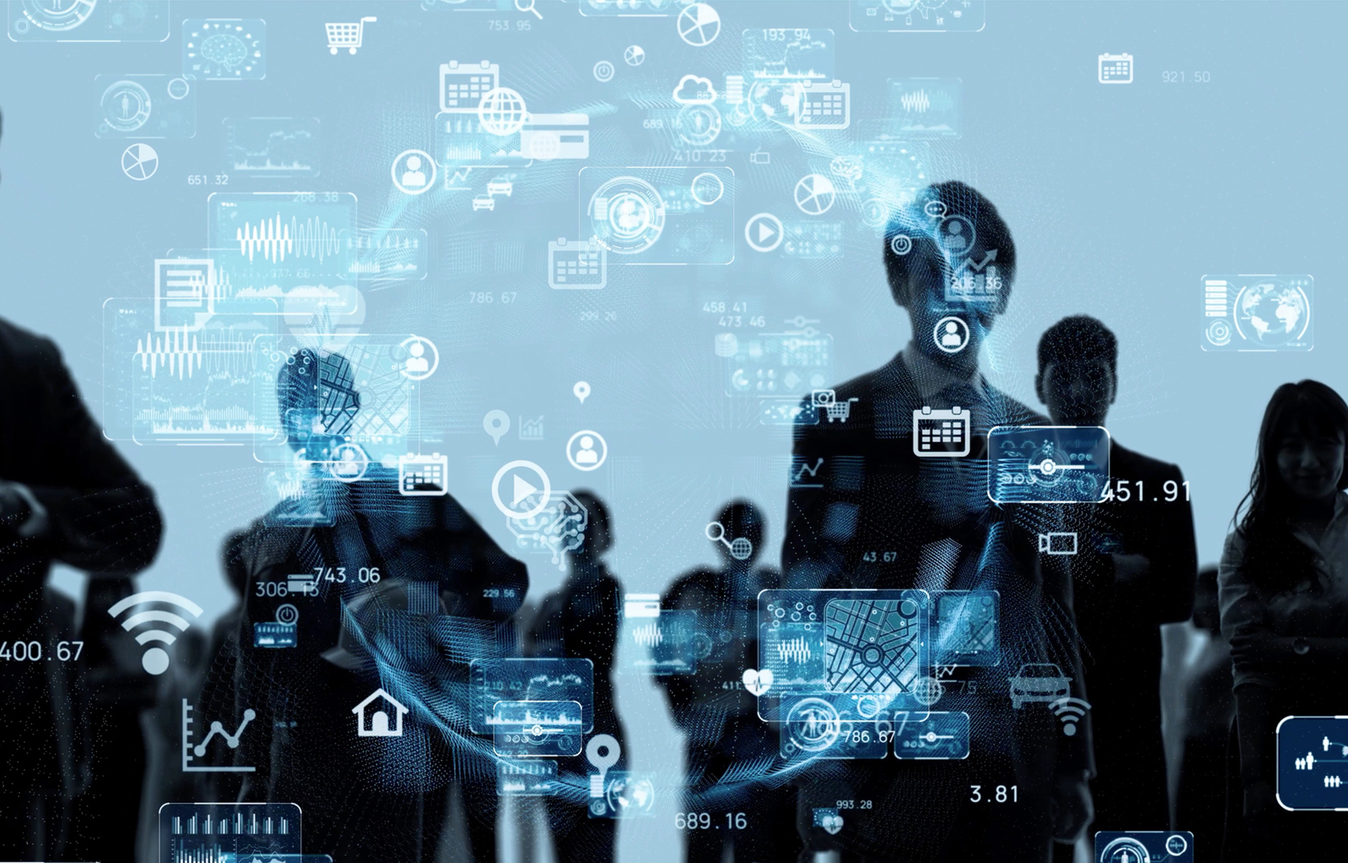
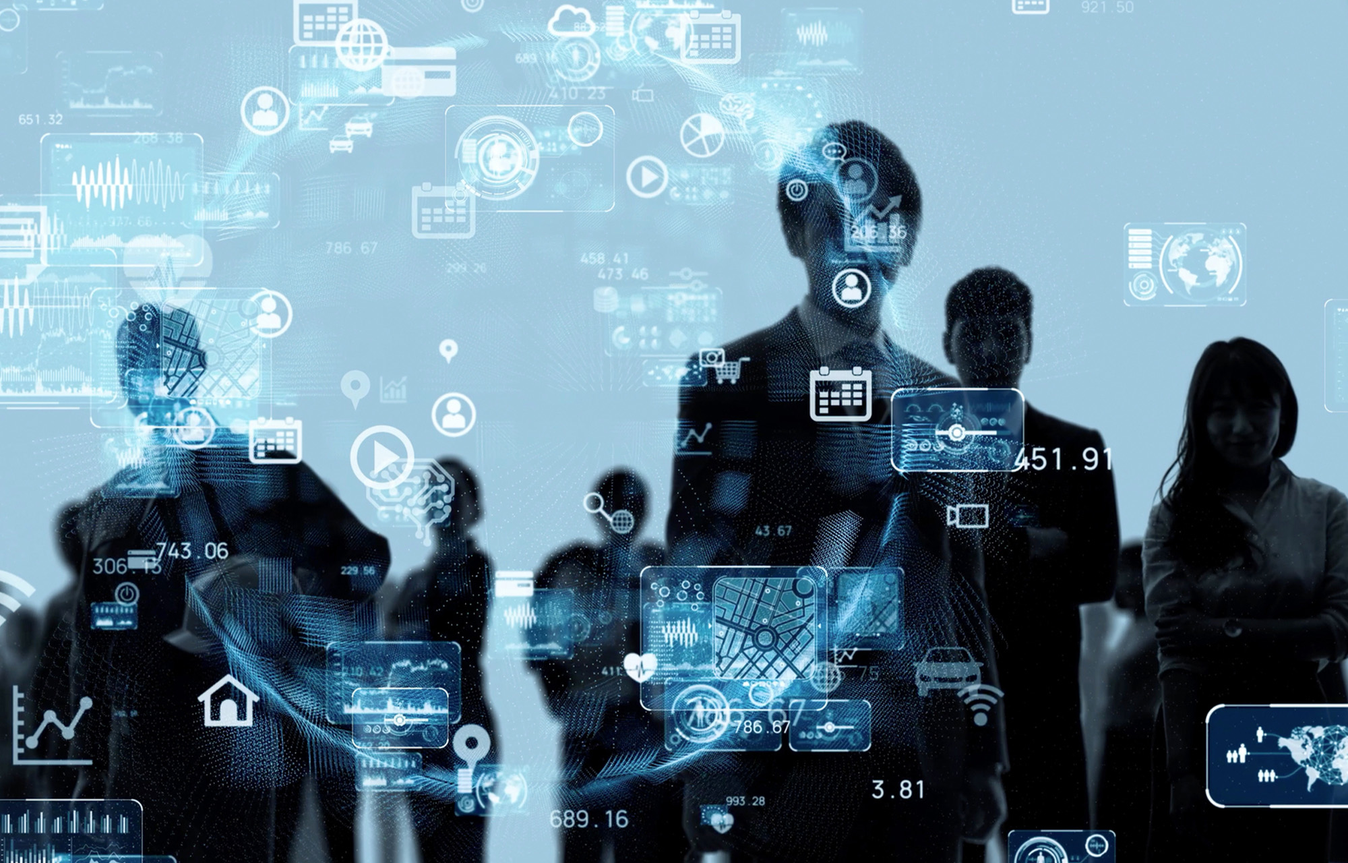
fix: トップスライド挙動変更

diff --git a/src/components/top/mv/mv.js b/src/components/top/mv/mv.js
@@ -1,7 +1,12 @@
 import $ from 'jquery';
 import notice from 'libraries-frontend-framelunch/js/notice';
+import gsap from 'gsap';
 
 notice.listen('init', () => {
+  const slide = $('.mv__slider .slide');
+  const slideLength = slide.length;
+  let currentSlide = 0;
+
   $('.copy_animation').each((index, element) => {
     $('span', element).each((index2, element2) => {
       const delay = index2 * 50 + index * 500;
@@ -21,16 +26,19 @@ notice.listen('init', () => {
 
   $('.mv__text').addClass('-start');
 
-  // eslint-disable-next-line
-  const swiper = new Swiper('#mvSlider', {
-    effect: 'fade',
-    fadeEffect: {
-      crossFade: true,
-    },
-    speed: 500,
-    allowTouchMove: false,
-    autoplay: {
-      delay: 5000,
-    },
-  });
+  setInterval(() => {
+    slide.eq(currentSlide).addClass('-lastCurrent');
+    slide.eq(currentSlide).removeClass('-current');
+    currentSlide += 1;
+    if (currentSlide >= slideLength) {
+      currentSlide = 0;
+    }
+    slide.eq(currentSlide).addClass('-current');
+    slide.eq(currentSlide).removeClass('-lastCurrent');
+    const targetSlide = slide.eq(currentSlide);
+    gsap.fromTo(targetSlide, { left: '100%' }, { left: 0, duration: 1.5, ease: 'power4.inOut' });
+    gsap.fromTo($('img', targetSlide), { x: '-100%' }, { x: 0, duration: 1.5, ease: 'power4.inOut' });
+  }, 7000);
+
+  slide.eq(currentSlide).addClass('-current');
 });

diff --git a/src/components/header/header.css b/src/components/header/header.css
@@ -1,10 +1,30 @@
 .header {
     /* header style here */
     border-bottom: 1px solid #e5e5e5;
+    height: 10rem;
+    @media (--sp) {
+        height: 6rem;
+    }
+    .headerFixed {
+        position: fixed;
+        top: 0;
+        width: calc(1360px - 20rem);
+        z-index: 300;
+        height: 10rem;
+        @media (--tb-h) {
+            width: auto;
+            left: 4rem;
+            right: 4rem;
+        }
+        @media (--sp) {
+            height: 6rem;
+        }
+    }
     .layout {
-        padding: 3.2rem 10rem;
+        padding: 0 10rem;
         border-left: 1px solid #e5e5e5;
         border-right: 1px solid #e5e5e5;
+        height: 100%;
         @media (--tb-h) {
             padding-left: 4rem;
             padding-right: 4rem;
@@ -22,9 +42,17 @@
         display: flex;
         justify-content: space-between;
         align-items: center;
+        height: 10rem;
 
         @media (--tb) {
             display: block;
+            position: relative;
+            top: 50%;
+            transform: translateY(-50%);
+            height: auto;
+        }
+        @media (--sp) {
+            height: 6rem;
         }
 
         a {
@@ -48,7 +76,7 @@
                 gap: 25px;
             }
             @media (--tb) {
-                margin-top: 1.6rem;
+                margin-top: 1.0rem;
             }
 
             a {

diff --git a/src/components/top/mv/mv.css b/src/components/top/mv/mv.css
@@ -5,6 +5,9 @@
     z-index: -1;
 
     &__slider {
+        position: relative;
+        z-index: 10;
+        overflow: hidden;
         @media (--not-sp) {
             margin-left: auto;
             width: calc(1000 / 1600 * 100%);
@@ -16,13 +19,27 @@
             width: calc(650 / 750 * 100%);
             margin-left: auto;
         }
-        .swiper {
-            &-wrapper {
-                .swiper-slide {
-                    img {
-                        width: 100%;
-                    }
-                }
+
+        & .slide {
+            position: absolute;
+            top: 0;
+            height: 100%;
+            width: 100%;
+            overflow: hidden;
+            &:first-of-type {
+                position: relative;
+            }
+
+            img {
+                width: 100%;
+            }
+
+            &.-lastCurrent {
+                z-index: 10;
+            }
+
+            &.-current {
+                z-index: 20;
             }
         }
 

diff --git a/src/components/top/aboutDetail/aboutDetail.css b/src/components/top/aboutDetail/aboutDetail.css
@@ -72,7 +72,7 @@
                         @media (--not-sp) {
                             content: "";
                             display: block;
-                            padding-top: calc(179 / 102 * 10%);
+                            padding-top: 18%;
                         }
                     }
                     & img {
